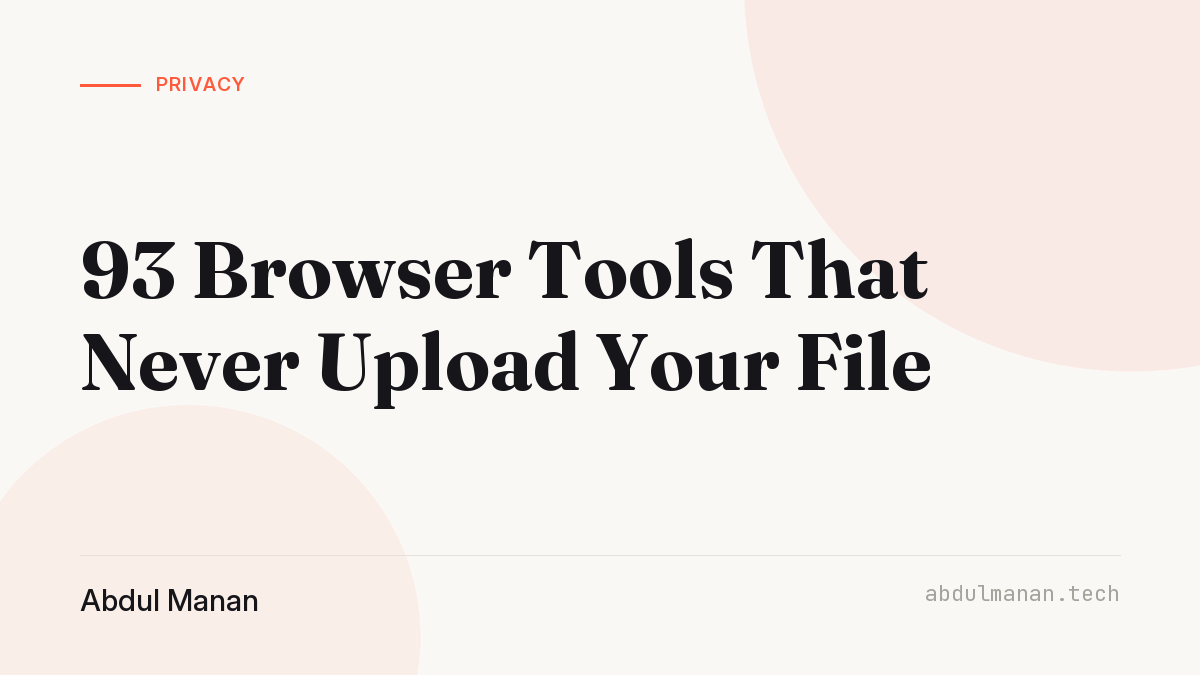
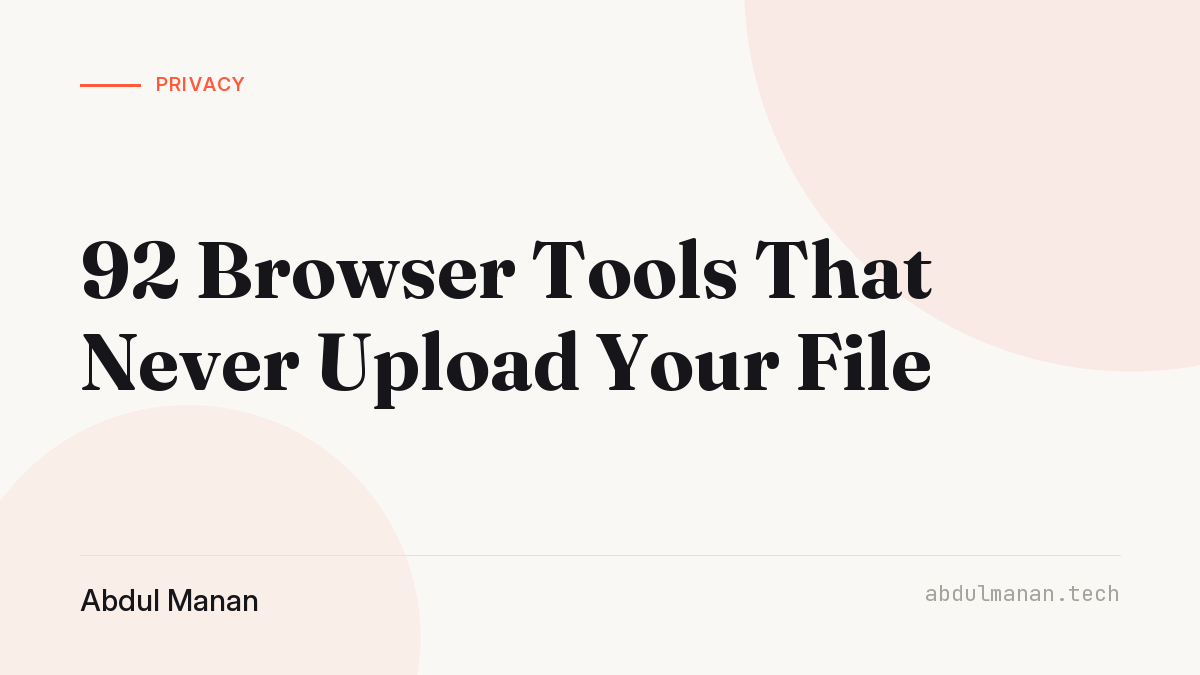
content(blog): rewrite the ToolForge post; 92 tools, not 93
1489 words. catalog.json has 93 entries but OCR is a 'soon'
placeholder, so the title, body and cover now say 92. Also corrects
the old post on IndexedDB (only a write-only 'recent' store), Web
Workers (only PDF.js has one), categories (seven) and running it
(a Vite build, Node 20+). The tradeoff is the reversed autoUpdate
service worker, quoted from vite.config.ts.

Changed region(s): [[0.0925, 0.3422, 0.7708, 0.4667]]

diff --git a/posts/toolforge-browser-pdf-tools.md b/posts/toolforge-browser-pdf-tools.md
@@ -1,111 +1,121 @@
 ---
-title: ToolForge — 93 Browser Tools, Zero Uploads
+title: ToolForge — 92 Browser Tools, Zero Uploads
 date: 2026-09-16
-excerpt: Most free PDF tools upload your file to someone else's server. ToolForge does the whole job inside your browser tab, and works offline.
+updated: 2026-11-14
+excerpt: How ToolForge runs 92 PDF, image and text tools inside the browser tab, and what offline-first cost in memory and updates.
 cover: posts/images/toolforge-browser-pdf-tools.png
 tags: javascript, privacy, pdf, browser, open-source
 ---
 
-# ToolForge — 93 Browser Tools, Zero Uploads
+# ToolForge — 92 Browser Tools, Zero Uploads
 
-Search "merge PDF" and every result asks you to upload the file. Your contract,
-your payslip, your ID scan — onto a stranger's server, with a promise that it'll
-be deleted in an hour.
+Most free PDF tools want the file uploaded before they will merge or compress it. For a contract, a payslip or an ID scan, that means trusting someone else's server and their deletion policy.
 
-The strange part is that none of it needs a server. Browsers have had the APIs to
-do this work locally for years. So I built
-**[ToolForge](https://github.com/abdulmanan69/pdf-toolkit)**: 93 document, image,
-text and utility tools that run entirely in your browser. No uploads, no accounts,
-no tracking — and it keeps working with no connection at all.
+[ToolForge](https://github.com/abdulmanan69/pdf-toolkit) is my answer: a static React app where every merge, render, hash and conversion runs inside the tab. There is no backend. The only `fetch()` calls in `src/` read `data:` URLs the app generated itself, and one of the README's contributing rules is "Never add a network call." It is MIT licensed, with a [live demo](https://abdulmanan69.github.io/pdf-toolkit/) and a [project page](/projects/pdf-toolkit/).
 
-[Try it live](https://abdulmanan69.github.io/pdf-toolkit/) · MIT licensed
+## 92 tools, not 93
 
-## "Client-side" here means there is no server
+Every tool is an entry in `src/tools/catalog.json`, which has 93 entries. One of them, OCR, carries `"status": "soon"` and is a placeholder, so 92 tools are implemented today. The first version of this post said 93.
 
-ToolForge is a static single-page app. Once the page has loaded there is no server
-left to talk to. Every merge, render, hash and conversion happens inside your tab,
-using:
+By primary category: PDF 29 (including the OCR placeholder), Image 17, Text 15, Conversion, Security and Utilities 10 each, and Compression 2. 21 entries also name extra categories in an `alsoIn` field, so Compress PDF, for example, appears under both PDF and Compression.
 
-- **Canvas** for rendering pages, resizing and filtering images
-- **Web Crypto** for hashing and password work
-- **IndexedDB** for holding large files without blowing up memory
-- a handful of well-known client-side libraries for PDF and archive formats
+## The stack
 
-The privacy claim isn't a policy you have to trust. Open DevTools, watch the
-Network tab, drop in a file. Nothing leaves.
+React 18 and TypeScript, built with Vite 6, deployed to GitHub Pages by a workflow that type-checks, runs the unit tests and builds on every push to `main`. Inside the tab:
 
-## What's actually in it
+- **Writing PDFs:** `@cantoo/pdf-lib`, a pdf-lib fork with AES encryption, because upstream pdf-lib cannot read or write password-protected files. Every module imports it through `src/lib/pdf.ts`.
+- **Reading PDFs:** PDF.js, imported on first use by `getPdfjs()` and run in its own worker.
+- **Images:** one canvas pipeline in `src/lib/image.ts`. Tools describe resize, filter and watermark steps as data; brightness or blur become a CSS filter string on `ctx.filter`.
+- **Hashes:** Web Crypto for SHA and HMAC JWT verification. MD5 is not available there, so `src/lib/crypto.ts` carries an RFC 1321 version, kept "only for checksum comparison, never for passwords."
+- **The rest:** JSZip, `qrcode`, `jsqr`, `jsbarcode` and `marked`.
 
-The tools cover six categories. A few overlap — Compress PDF is listed under both
-PDF and Compression — so the lists add up to a little more than 93 distinct tools.
+## One catalogue, one workbench
 
-**PDF.** Merge, split, extract pages, delete pages, rearrange with drag & drop
-plus undo/redo, rotate, crop, duplicate pages, insert blanks, compress, add or
-remove watermarks, page numbers, metadata editor, flatten, sign by drawing or
-uploading, add text, highlight, underline, sticky notes, fill AcroForms, password
-protect, unlock, view, search text, extract text, extract embedded images, PDF to
-images, images to PDF, contact-sheet generator.
+The first commit message sums up the design: the catalogue is "plain data (src/tools/catalog.json) joined to icons and lazy components, so the build scripts and the app share one source of truth", and "FileWorkbench owns the whole file loop", so "a tool is ~30 lines."
 
-**Images.** Resize, compress by quality or target size, crop by drag or numbers,
-rotate, flip, convert between JPG / PNG / WebP / SVG, GIF conversion, image to PDF,
-watermark, blur, grayscale, brightness, contrast, saturation, background colour,
-QR generator and QR scanner from file or camera.
+The join happens in [src/tools/registry.ts](https://github.com/abdulmanan69/pdf-toolkit/blob/10f017fb6912b07cf4d305787a34eff320ecd302/src/tools/registry.ts):
 
-**Text.** Word and character counters, remove duplicate lines, strip extra spaces,
-sort lines, reverse text, Base64 and URL encode/decode, JSON formatter and
-validator, XML and HTML formatters, Markdown preview.
-
-**Conversion.** JPG/PNG/WebP to PDF, PDF to PNG/JPG, ZIP creator and extractor,
-CSV to JSON, JSON to CSV, Markdown to HTML.
-
-**Security.** Password generator with an entropy readout, SHA-256, SHA-512, MD5,
-UUID v4, JWT decoder, JWT viewer with local HS256 verification, random strings,
-PDF encryption and decryption.
-
-**Utilities.** QR codes for text, URL, Wi-Fi and vCard, barcodes (CODE128, EAN,
-UPC and more), colour picker with contrast checks, palette generator, timestamp
-converter, Unix clock, lorem ipsum, random numbers, dice, coin flip.
-
-## The interesting engineering problems
-
-**Memory, not CPU, is the limit.** A 200-page scanned PDF will happily exhaust a
-tab if you hold every rendered page as a bitmap. Pages get rendered on demand and
-cached to IndexedDB rather than kept in JavaScript memory.
-
-**The UI has to stay alive.** Hashing a large file or rasterising a long document
-blocks the main thread, and a frozen tab reads as a crash. Heavy work goes off the
-main thread and reports progress, so the page always looks like it's doing
-something.
-
-**Offline is a feature, not a fallback.** Because everything is local, the app
-caches itself and stays usable on a plane or a bad hotel connection. Any tool that
-*would* need the network simply isn't in the app.
-
-**93 tools can't be 93 pages.** They share one workspace shell — file picker,
-preview, options panel, download — so adding a tool means adding a module, not a
-new page and a new set of bugs.
-
-## Who it's for
-
-People handling documents they'd rather not hand to a stranger: HR files, invoices,
-ID scans, medical letters, signed contracts. Also anyone on a locked-down office
-machine where installing Acrobat isn't happening and uploading client documents is
-a fireable offence.
-
-That privacy-first, no-server approach is the same one behind
-[LeadSlicer](/blog/leadslicer-split-csv-excel-files/) and
-[CV Studio](/blog/cv-studio-free-resume-builder/) — once you've built the pattern
-once, a surprising number of "you need an account for this" products turn out not
-to need one.
-
-## Run it yourself
-
-It's a static site. Clone it and open `index.html`, or fork it and publish to
-GitHub Pages in two clicks — there's no build step and nothing to configure.
-
-```bash
-git clone https://github.com/abdulmanan69/pdf-toolkit.git
+```ts
+export const TOOLS: ToolDefinition[] = (catalog as ToolCatalogEntry[]).map((entry) => {
+  const implementation = IMPLEMENTATIONS[entry.id];
+  const icon = ICONS[entry.id];
+  if (!implementation || !icon) {
+    throw new Error(
+      `Tool "${entry.id}" is in catalog.json but has no ${implementation ? 'icon' : 'implementation'}.`,
+    );
+  }
+  const [loader, exportName] = implementation;
+  return {
+    ...entry,
+    icon,
+    component: lazy(async () => ({ default: (await loader())[exportName] })),
+  };
+});
 ```
 
-The code is [on GitHub](https://github.com/abdulmanan69/pdf-toolkit). If a tool
-you need is missing, open an issue — or [tell me about it](/#contact).
+`IMPLEMENTATIONS` maps each id to a category module and a named export, so a module is not imported until one of its tools is opened. An entry with no code or icon throws as soon as the registry loads instead of shipping a dead page.
+
+The same JSON drives the build. `scripts/seo.mjs` writes the sitemap from it, then prerenders 102 HTML files (home, 7 categories, 93 tools, About), each with its own title, description, canonical URL and JSON-LD. GitHub Pages has no rewrite rules, so this is how a real path like `/pdf-toolkit/tool/merge-pdf` gets its own metadata. A copy of `index.html` becomes `404.html` so unknown URLs still boot the router.
+
+`FileWorkbench` handles drop and paste, reordering, progress, errors, per-file downloads and a ZIP of everything. A tool supplies options and an async `run(files, report)`. Each run takes a token, and an older run's results are discarded if a newer one has started, so changing an option mid-run cannot show stale output.
+
+## Where the files actually live
+
+The first version of this post said rendered pages were cached in IndexedDB and heavy work ran off the main thread. Neither matches the code.
+
+Files you add are ordinary `File` objects in React state. The update prompt says it directly: "open files are held in memory, not saved." The app has no Web Workers of its own. PDF.js parses in its worker; pdf-lib, the canvas pipeline and MD5 run on the main thread, and long jobs keep the progress bar moving through the workbench's `report(value, label)` callback.
+
+Page thumbnails are rendered once per file at 0.3 scale and kept as JPEG object URLs, so selecting, rotating or reordering pages never re-renders the document.
+
+IndexedDB has a different job. `FileWorkbench` writes every added file to a `recent` store capped at 12 files and 60 MB. A comment says it is for a "Recent Files panel", but no code reads the store back yet. In Settings, Clear recent files empties it; Clear all local data only removes the `toolforge:` localStorage keys.
+
+The README states the limit plainly: "Very large files are bounded by device memory, not by an upload quota."
+
+## Compress PDF does two different things
+
+Lossless mode re-saves the PDF with pdf-lib using object streams, and returns the original if the result is not smaller.
+
+Balanced (150 DPI, JPEG quality 0.75) and Strong (96 DPI, 0.55) render every page to a canvas and rebuild the PDF from JPEGs. The lossless preset's label, "Structure only — text stays selectable", is the hint: the other two produce image-only pages. They also hold every rendered page in memory until the rebuild, since `renderPdfPages` returns the whole array.
+
+## The tradeoff: ask before updating
+
+In an offline-first app, the service worker decides when a new version takes over. The [first commit](https://github.com/abdulmanan69/pdf-toolkit/blob/8adb3fed70fea2eca4cde918d56fa05f625a1bd8/vite.config.ts) used `registerType: 'autoUpdate'`, with a comment in `main.tsx` saying "new versions apply on the next visit". The [second commit](https://github.com/abdulmanan69/pdf-toolkit/commit/10f017fb6912b07cf4d305787a34eff320ecd302) reversed that, and `vite.config.ts` explains why:
+
+> A tool that holds unsaved work in memory must never swap itself out underneath the user — an autoUpdate service worker can reload the page mid-operation and take a half-finished document with it.
+
+Workbox now runs with `skipWaiting: false` and `clientsClaim: false`, and a `PwaManager` component shows "A new version is ready" with Reload now and Later buttons.
+
+The cost is freshness: someone can keep running an old build for as long as they press Later. So `pwa.tsx` polls for updates every hour. Its comment: "Without this a long-lived installed window can run an old build for days, because a standalone app rarely gets a cold navigation." I would rather someone run a stale build for a while than lose a half-finished document.
+
+## The offline bug in the first release
+
+The first commit precached `**/*.{js,css,html,svg,png,ico,woff2}`. That looked complete and was not. The fix from the second commit, in [vite.config.ts](https://github.com/abdulmanan69/pdf-toolkit/blob/10f017fb6912b07cf4d305787a34eff320ecd302/vite.config.ts):
+
+```ts
+        /*
+          `mjs` is load-bearing and easy to miss: Vite emits the PDF.js worker
+          as `pdf.worker.min-[hash].mjs`, and a `js` glob does not match
+          it. Without it the app precached a healthy-looking manifest and then
+          failed to open a single PDF offline — the worker was the one request
+          that still went to the network.
+        */
+        globPatterns: ['**/*.{js,mjs,css,html,svg,png,ico,woff2,bcmap,pfb,wasm,json}'],
+```
+
+The same line adds `bcmap` and `pfb`, PDF.js's character maps and standard fonts, which `scripts/copy-pdfjs-assets.mjs` copies into `public/pdfjs/` before every dev run and build. Without them, the config notes, "a cold offline load opens documents with missing glyphs, which reads as corruption rather than as a missing cache."
+
+That commit fixed a quieter bug too: the Reduce motion setting wrote `data-reduce-motion` on the `html` element, but, as a comment in `App.tsx` admits, the first build "never read it anywhere". Now it drives Framer Motion's `MotionConfig`.
+
+## OCR waits for an opt-in download
+
+OCR is the one entry that is not implemented yet, and the reason is size. The placeholder page says:
+
+> Recognising text in scans needs a language model of roughly 10–15 MB per language. Shipping it eagerly would break the promise that this app loads fast and works offline after one visit, so OCR will arrive as an opt-in download: you pick a language, the model is cached, and recognition then runs entirely on your device like every other tool here.
+
+Until then the page does one useful thing: drop a PDF in and it counts the text PDF.js can extract. Over 40 characters, it sends you to Extract Text; fewer, and the file is "almost certainly a scan that will need OCR."
+
+## Running it
+
+It is a Vite project, so it needs Node 20 or newer and a build: clone it, run `npm install`, then `npm run dev`. `npm run build` copies the PDF.js assets, writes the sitemap, type-checks, builds and prerenders the 102 routes into `dist/`.
+
+If a tool you need is missing, open an issue or [tell me about it](/#contact).
